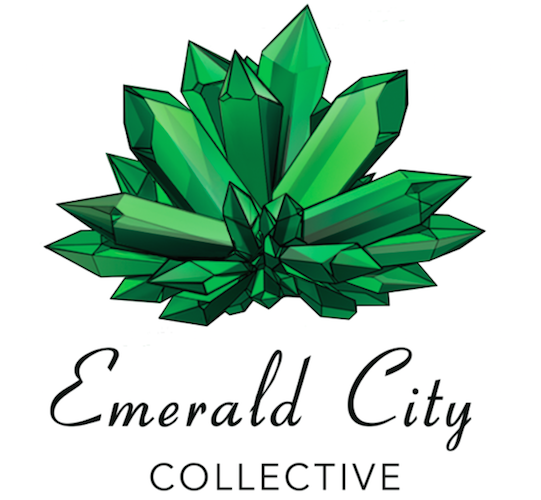
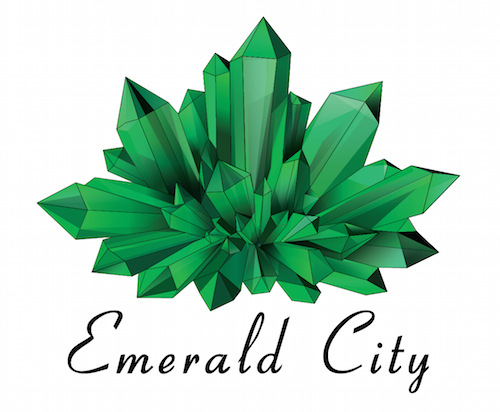
changes

diff --git a/views/index.html b/views/index.html
@@ -53,7 +53,7 @@
 			<li> <a href="#team" class="smoothScroll"> Team</a></li>
 			<li> <a href="#portfolio" class="smoothScroll"> Portfolio</a></li>
 			<li> <a href="#blog" class="smoothScroll"> Blog</a></li> -->
-			<li> <a href="#contact" class="smoothScroll"> Contact</a></li>
+			<li> <a href="mailto:info@emeraldcityca.org" class="smoothScroll"> Contact</a></li>
         </div><!--/.nav-collapse -->
       </div>
     </div>
@@ -64,17 +64,23 @@
 		<!-- ==== HEADERWRAP ==== -->
 	    <div id="headerwrap" id="home" name="home">
 			<header class="clearfix">
-				<img src="assets/img/EmeraldCity.png" style="display: block; margin: 0 auto; padding-top: 95px;padding-bottom: 20px;"/>
-	  		 		<!-- <h1><span class="icon icon-shield"></span></h1>
-	  		 		<p>A Bootstrap 3 One Page Theme.</p>
-	  		 		<p>Exclusive for BlackTie.co.</p> -->
+				<div style="width: 50%; margin: 0 auto;">
+				<img src="assets/img/emeraldcity.png" style="display: block; margin: 0 auto; padding-top: 70px; width:100%;"/>
+				</div>
 	  		</header>	    
 	    </div><!-- /headerwrap -->
 
 		<!-- ==== GREYWRAP ==== -->
-		<div id="greywrap" style="min-width: 550px;">
+		<div class="resp1" style="min-width: 550px; background-color: #fff;">
 			
-				<h1 class="centered" style="padding-bottom: 45px; font-size: 150px; font-family: 'Tangerine', serif;">Coming Soon</h1>
+				<h1 class="centered resp" style="padding-bottom: 45px; width: 550px; margin: 0 auto; margin-top: 0;font-size: 40px; font-weight: 200; font-family: 'Helvetica Neue', Helvetica, serif; text-align: center;">After a long journey towards a once faint green light in the distance, you stop at the edge of the green horizon, "Can this place be real? Can flowers be so green with as so intoxicating? Can flowers be so liberating and so comforting?" As awe turns to elation, you step forward...  </h1>
+
+				<h1 class="centered resp" style="padding-bottom: 45px; width: 550px; margin: 0 auto; margin-top: 0;font-size: 40px; font-weight: 200; font-family: 'Helvetica Neue', Helvetica, serif; text-align: center;">Welcome to Emerald City!</h1>
+
+				<h1 class="centered resp" style="padding-bottom: 5px; width: 550px; margin: 0 auto; margin-top: 0;font-size: 40px; font-weight: 700; font-family: 'Helvetica Neue', Helvetica, serif; text-align: center; color: #006600;">EMERALDCITYCA.ORG</h1>
+				<div style="text-align:center;">
+					<a class="resp" href"mailto:info@emeraldcityca.org" style="padding-bottom: 55px; width: 550px; margin: 0 auto; margin-top: 0;font-size: 40px; font-weight: 200; font-family: 'Helvetica Neue', Helvetica, serif; text-align: center; color: #000;">info@emeraldcityca.org</a>
+				</div>
 				<!-- <div class="col-lg-4 callout">
 					<span class="icon icon-stack"></span>
 					<h2>Bootstrap 3</h2>
@@ -96,7 +102,7 @@
 		</div>
 		
 		
-		<div id="contact" name="contact" style="min-width: 550px ;">
+		<!-- <div id="contact" name="contact" style="min-width: 550px ;">
 			
 			<br>
 				<h1 class="centered">THANKS FOR VISITING US</h1>
@@ -106,11 +112,11 @@
 
 			
 		
-		</div><!-- container -->
+		</div>
 
 		<div id="footerwrap" style="min-width: 550px;">
 				<h4>Emerald City Collective</h4>
-		</div>
+		</div> -->
 
     <!-- Bootstrap core JavaScript
     ================================================== -->

diff --git a/public/assets/css/main.css b/public/assets/css/main.css
@@ -636,4 +636,14 @@ a:after {
 		line-height: 38px;
 	}
 }
+@media screen and (max-width:600px) {
 
+    .resp {
+            font-size: 30px !important;
+            width: 400px !important;
+            margin: 0 auto !important;
+        }
+        .resp1 {
+            min-width: 350px !important;
+        }
+}
